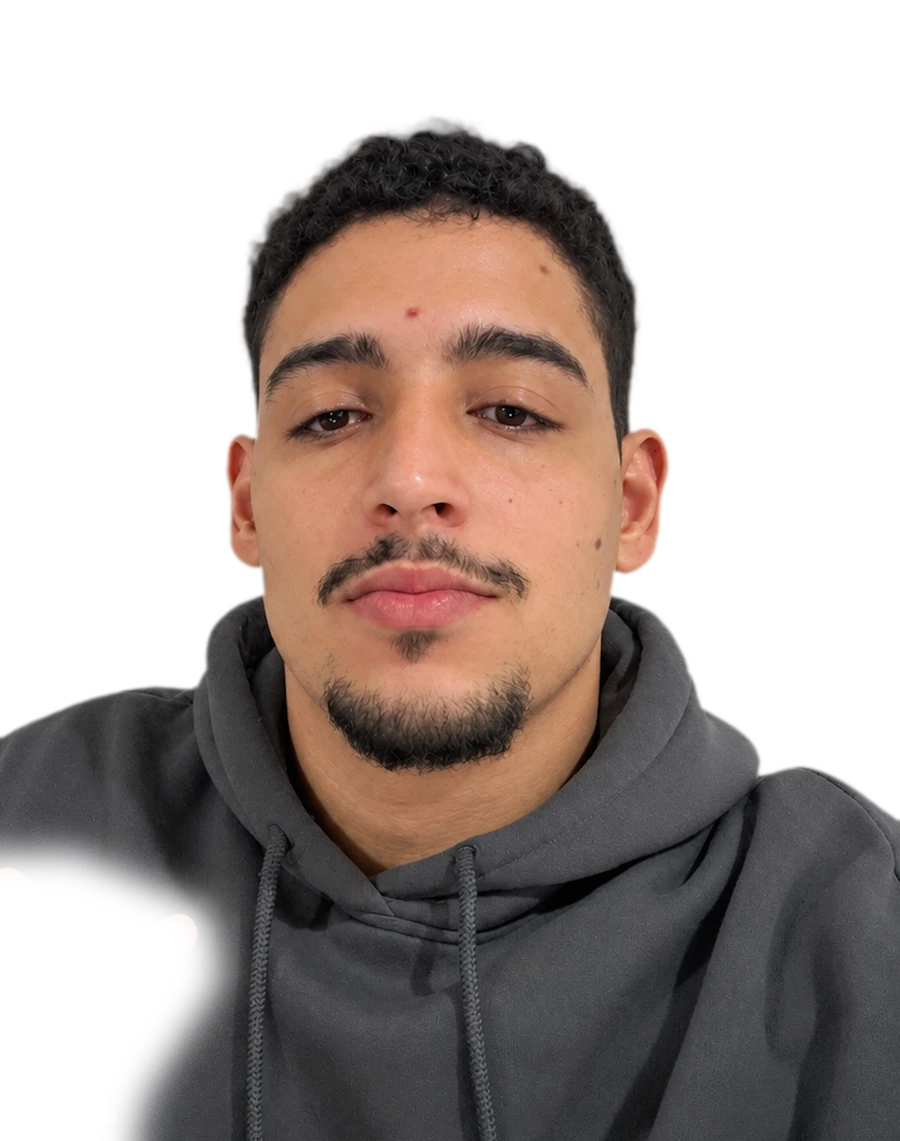
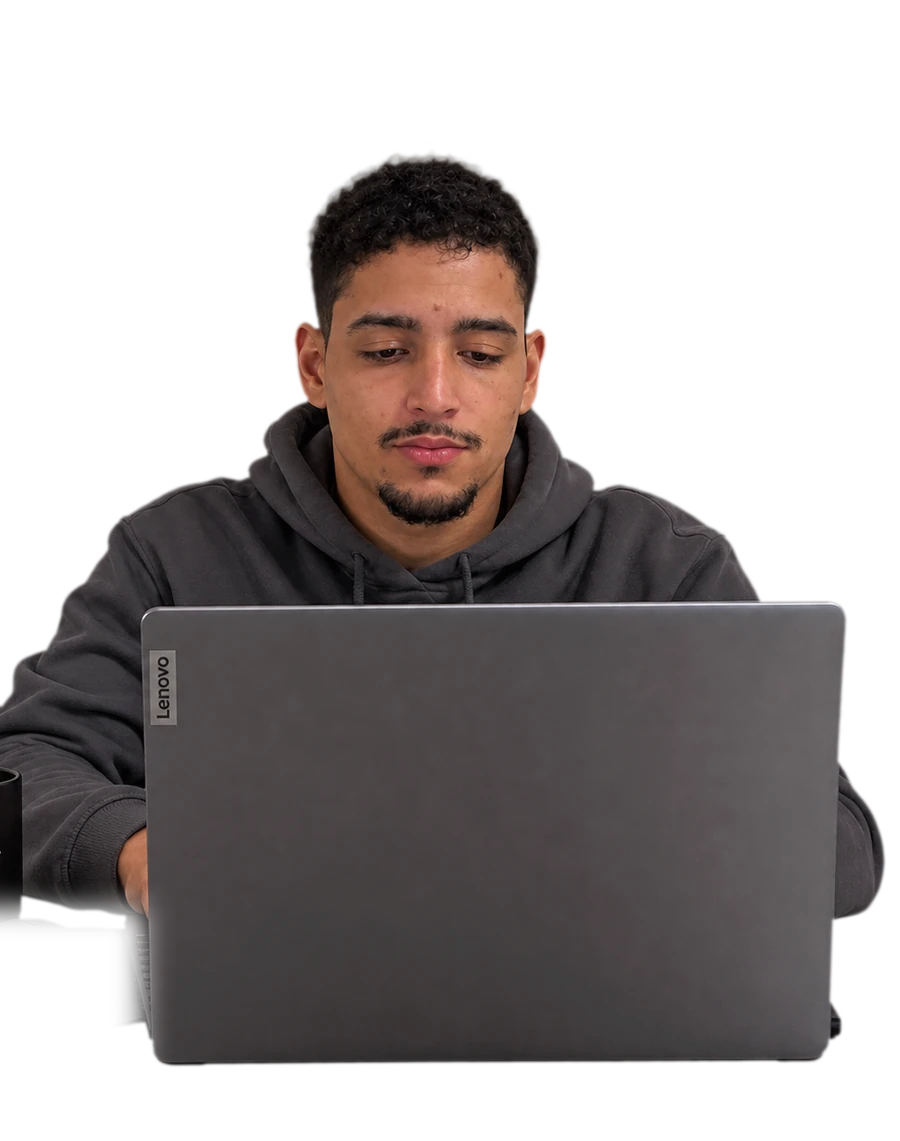
Foto nova no hero: Leonardo no notebook
Também refaz a imagem de compartilhamento (og.jpg) com a foto nova.

diff --git a/src/sections/hero.html b/src/sections/hero.html
@@ -14,7 +14,7 @@
     <p class="hero__titulo" data-camada="titulo" aria-hidden="true"><span>PORTFÓLIO</span></p>
 
     <figure class="hero__foto">
-      <span class="hero__retrato" data-camada="foto" data-ajusta="96,-34"><img src="/img/leonardo-perfil.webp" width="900" height="1141" alt="Retrato de Leonardo, de moletom cinza" fetchpriority="high" decoding="async" /></span>
+      <span class="hero__retrato" data-camada="foto" data-ajusta="96,-34"><img src="/img/leonardo-perfil.webp" width="900" height="1141" alt="Leonardo de moletom cinza, trabalhando no notebook" fetchpriority="high" decoding="async" /></span>
     </figure>
 
     <div class="hero__esq">
